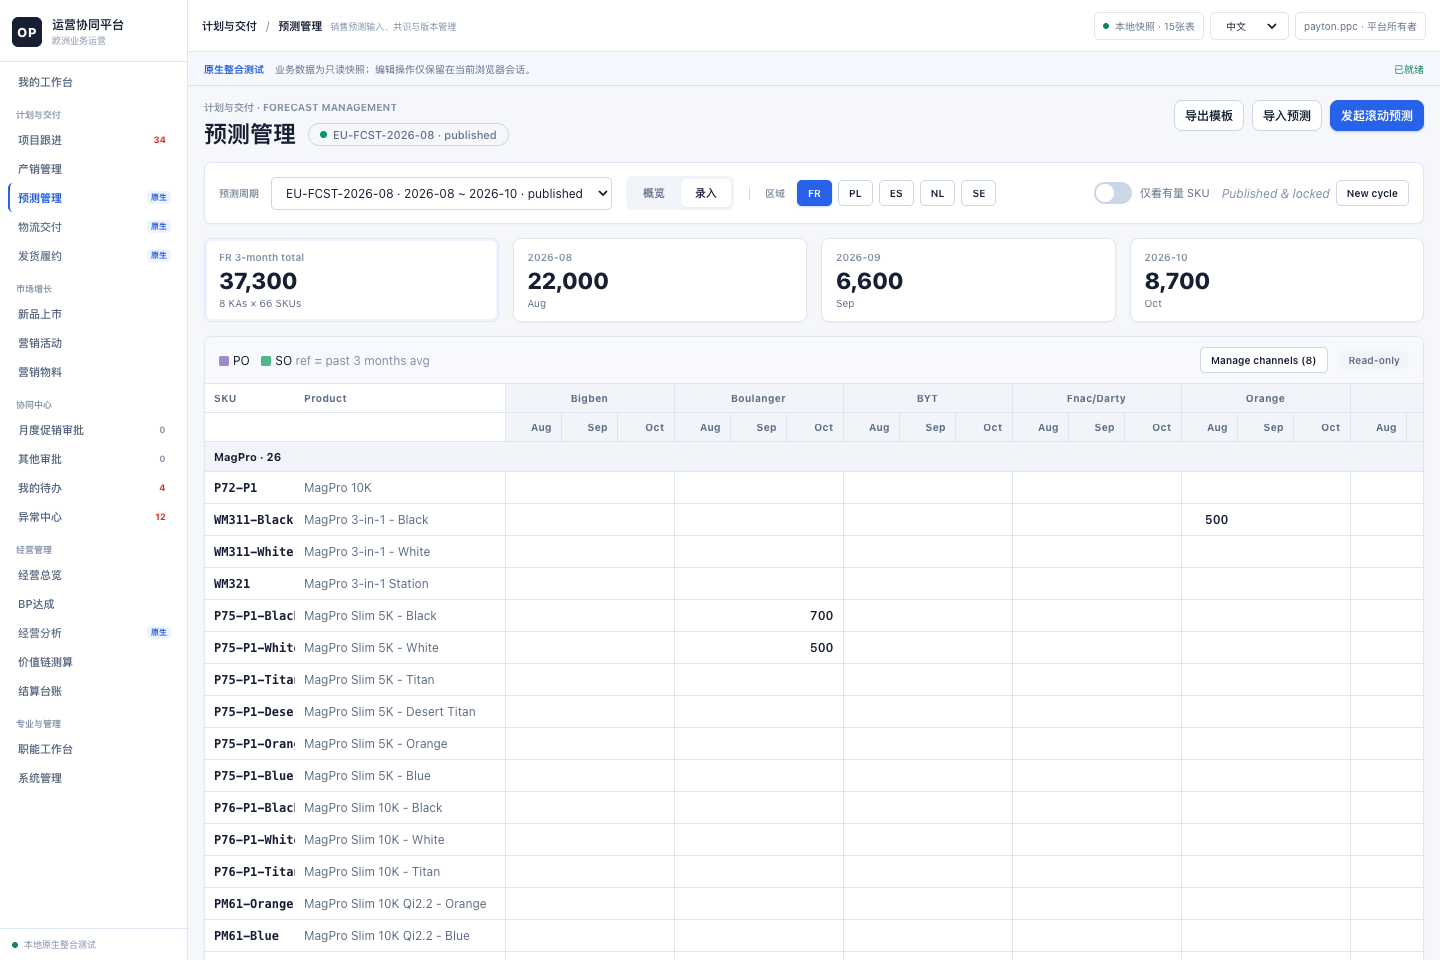
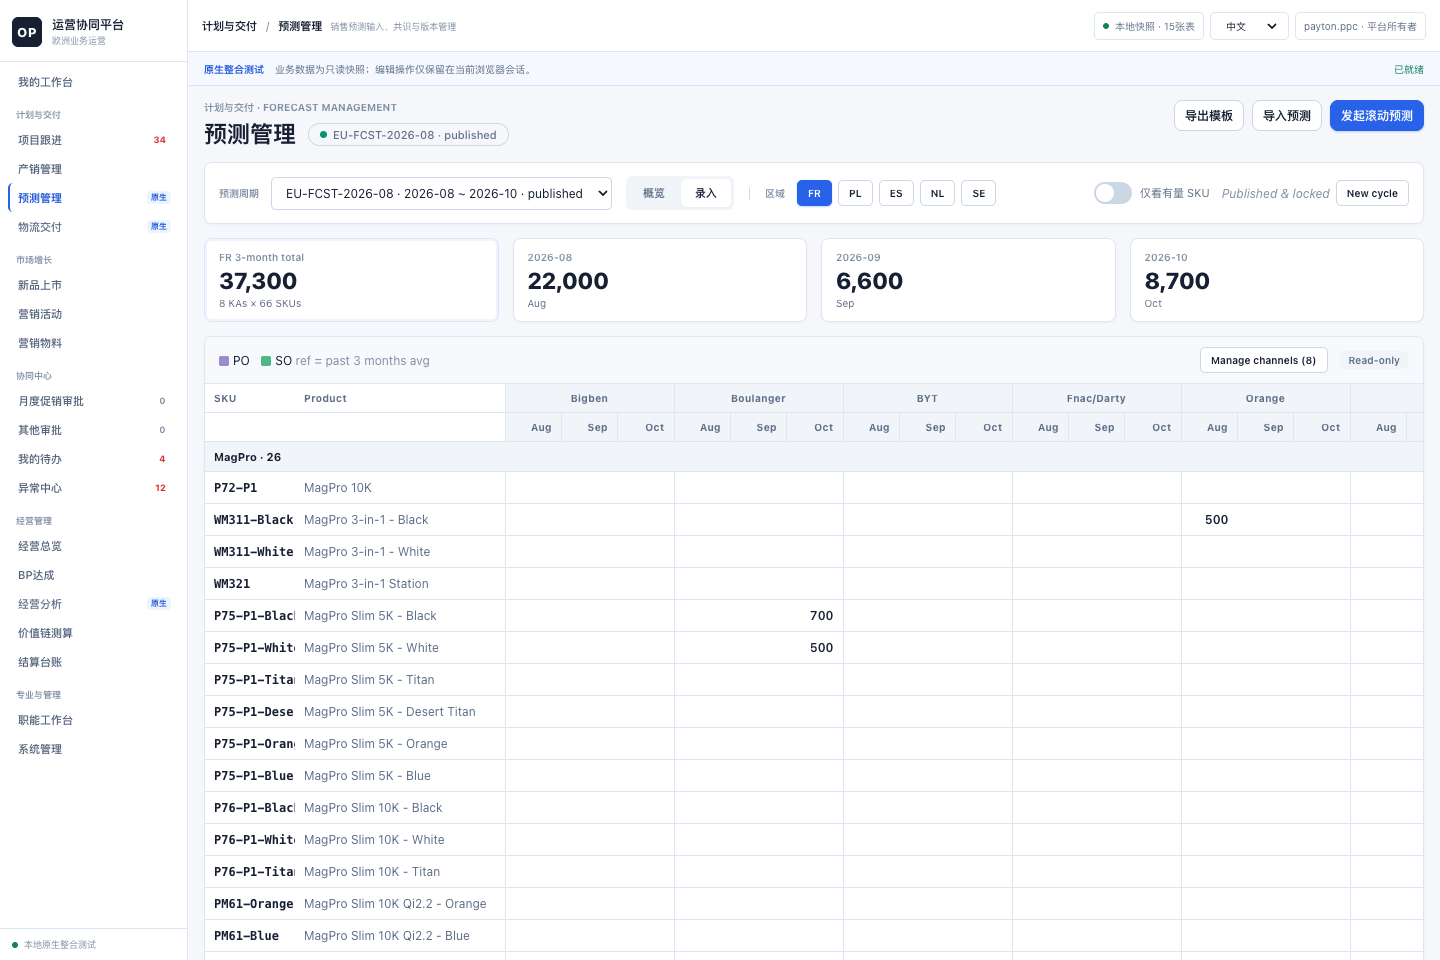
Refine native logistics workspace

Changed region(s): [[0.0, 0.375, 0.0625, 0.8125], [0.0, 0.25, 0.0312, 0.3438]]

diff --git a/erp-native-local-test/assets/platform-shell.js b/erp-native-local-test/assets/platform-shell.js
@@ -13,16 +13,20 @@
     logistic: {
       groupZh: "计划与交付",
       groupEn: "Planning & Delivery",
-      titleZh: "物流交付",
-      titleEn: "Logistics Delivery",
-      descriptionZh: "主数据、库存规格与渠道定价",
-      descriptionEn: "Master data, inventory specifications and channel pricing"
+      parentZh: "物流交付",
+      parentEn: "Logistics Delivery",
+      titleZh: "发货汇总",
+      titleEn: "Shipment Summary",
+      descriptionZh: "库存、规格与渠道定价汇总",
+      descriptionEn: "Inventory, specifications and channel pricing summary"
     },
     shipment: {
       groupZh: "计划与交付",
       groupEn: "Planning & Delivery",
-      titleZh: "发货履约",
-      titleEn: "Shipment Fulfilment",
+      parentZh: "物流交付",
+      parentEn: "Logistics Delivery",
+      titleZh: "发货操作",
+      titleEn: "Shipment Operations",
       descriptionZh: "PO 状态、批次发货与交付记录",
       descriptionEn: "PO status, shipment batches and delivery records"
     },
@@ -40,7 +44,7 @@
     "zh-CN": {
       brand: "运营协同平台", business: "欧洲业务运营", workbench: "我的工作台",
       planning: "计划与交付", projects: "项目跟进", sales: "产销管理", forecast: "预测管理",
-      logistic: "物流交付", shipment: "发货履约", growth: "市场增长", launch: "新品上市",
+      logistic: "物流交付", shipment: "发货操作", logisticsWorkspace: "物流交付", shipmentSummary: "发货汇总", shipmentOperation: "发货操作", growth: "市场增长", launch: "新品上市",
       campaigns: "营销活动", assets: "营销物料", collaboration: "协同中心", monthly: "月度促销审批",
       other: "其他审批", tasks: "我的待办", exceptions: "异常中心", businessManagement: "经营管理",
       overview: "经营总览", bp: "BP达成", performance: "经营分析", valueChain: "价值链测算",
@@ -50,7 +54,7 @@
     "en-GB": {
       brand: "Operations Hub", business: "Europe Business Operations", workbench: "My Workspace",
       planning: "Planning & Delivery", projects: "Project Tracking", sales: "Sales & Inventory", forecast: "Forecast Management",
-      logistic: "Logistics Delivery", shipment: "Shipment Fulfilment", growth: "Market Growth", launch: "New Product Launch",
+      logistic: "Logistics Delivery", shipment: "Shipment Operations", logisticsWorkspace: "Logistics Delivery", shipmentSummary: "Shipment Summary", shipmentOperation: "Shipment Operations", growth: "Market Growth", launch: "New Product Launch",
       campaigns: "Marketing Campaigns", assets: "Marketing Assets", collaboration: "Collaboration", monthly: "Monthly Promotion Approval",
       other: "Other Approvals", tasks: "My Tasks", exceptions: "Exception Centre", businessManagement: "Business Management",
       overview: "Business Overview", bp: "BP Achievement", performance: "Business Analysis", valueChain: "Value Chain Simulation",
@@ -65,11 +69,14 @@
   function moduleFromHash() {
     const params = new URLSearchParams(window.location.hash.replace(/^#/, ""));
     const requested = params.get("module");
+    if (requested === "logistic" && params.get("view") === "operation") return "shipment";
     return modules[requested] ? requested : "forecast";
   }
 
   function setHash(moduleKey, replace) {
-    const nextHash = `#module=${encodeURIComponent(moduleKey)}`;
+    const nextHash = moduleKey === "logistic" || moduleKey === "shipment"
+      ? `#module=logistic&view=${moduleKey === "shipment" ? "operation" : "summary"}`
+      : `#module=${encodeURIComponent(moduleKey)}`;
     if (window.location.hash === nextHash) return;
     if (replace) window.history.replaceState(null, "", nextHash);
     else window.history.pushState(null, "", nextHash);
@@ -88,10 +95,19 @@
     clearTransientUi();
     document.getElementById("renderStatus").textContent = locale === "en-GB" ? "Rendering..." : "正在呈现...";
     document.getElementById("view").replaceChildren();
+    const isLogisticsModule = moduleKey === "logistic" || moduleKey === "shipment";
     document.querySelectorAll("[data-module]").forEach((button) => {
-      button.classList.toggle("active", button.getAttribute("data-module") === moduleKey);
+      const buttonModule = button.getAttribute("data-module");
+      button.classList.toggle("active", buttonModule === moduleKey || (isLogisticsModule && buttonModule === "logistic"));
     });
-    document.getElementById("mobileModuleSelect").value = moduleKey;
+    const subnav = document.getElementById("logisticsSubnav");
+    subnav.hidden = !isLogisticsModule;
+    subnav.querySelectorAll("[data-logistics-view]").forEach((button) => {
+      const selected = button.getAttribute("data-logistics-view") === moduleKey;
+      button.classList.toggle("active", selected);
+      button.setAttribute("aria-selected", String(selected));
+    });
+    document.getElementById("mobileModuleSelect").value = isLogisticsModule ? "logistic" : moduleKey;
     updateContext(config);
     setHash(moduleKey, options && options.replace);
 
@@ -105,9 +121,12 @@
   function updateContext(config) {
     const english = locale === "en-GB";
     const group = english ? config.groupEn : config.groupZh;
+    const parent = english ? config.parentEn : config.parentZh;
     const title = english ? config.titleEn : config.titleZh;
     const description = english ? config.descriptionEn : config.descriptionZh;
-    document.getElementById("modulePath").innerHTML = `${escapeHtml(group)} <span class="sep">/</span> ${escapeHtml(title)}`;
+    document.getElementById("modulePath").innerHTML = parent
+      ? `${escapeHtml(group)} <span class="sep">/</span> ${escapeHtml(parent)} <span class="sep">/</span> ${escapeHtml(title)}`
+      : `${escapeHtml(group)} <span class="sep">/</span> ${escapeHtml(title)}`;
     document.getElementById("moduleDescription").textContent = description;
     document.getElementById("testModeDescription").textContent = english
       ? "Business data uses a read-only snapshot; edits remain in this browser session only."
@@ -154,6 +173,11 @@
 
   document.getElementById("mobileModuleSelect").addEventListener("change", (event) => {
     renderModule(event.target.value);
+  });
+
+  document.getElementById("logisticsSubnav").addEventListener("click", (event) => {
+    const viewButton = event.target.closest("[data-logistics-view]");
+    if (viewButton) renderModule(viewButton.getAttribute("data-logistics-view"));
   });
 
   document.getElementById("localeSelect").addEventListener("change", (event) => {

diff --git a/erp-native-local-test/assets/platform-integration.css b/erp-native-local-test/assets/platform-integration.css
@@ -203,6 +203,58 @@ button.top-control {
   max-width: none;
 }
 
+.logistics-subnav {
+  display: flex;
+  align-items: center;
+  gap: 14px;
+  margin: -2px 0 12px;
+  padding-bottom: 8px;
+  border-bottom: 1px solid var(--c-border);
+}
+
+.logistics-subnav[hidden] {
+  display: none;
+}
+
+.logistics-subnav-title {
+  color: var(--c-text-dim);
+  font-size: 10px;
+  font-weight: 700;
+}
+
+.logistics-subnav-tabs {
+  display: inline-flex;
+  align-items: center;
+  gap: 3px;
+  padding: 3px;
+  border: 1px solid var(--c-border);
+  border-radius: 6px;
+  background: var(--c-surface-3);
+}
+
+.logistics-subnav-tabs button {
+  min-width: 92px;
+  min-height: 29px;
+  border: 0;
+  border-radius: 4px;
+  background: transparent;
+  color: var(--c-text-dim);
+  font-size: 11px;
+  font-weight: 650;
+  cursor: pointer;
+}
+
+.logistics-subnav-tabs button:hover {
+  color: var(--c-text);
+  background: rgba(255, 255, 255, .65);
+}
+
+.logistics-subnav-tabs button.active {
+  background: var(--c-surface);
+  color: var(--c-primary-text);
+  box-shadow: var(--shadow-sm);
+}
+
 .page-head {
   margin-bottom: 12px;
 }
@@ -307,5 +359,58 @@ table.tbl td {
   .page-head .ph-actions {
     width: 100%;
     margin-left: 0;
+  }
+
+  .sw-root > div:first-child {
+    display: grid !important;
+    grid-template-columns: minmax(0, 1fr);
+    gap: 10px !important;
+  }
+
+  .sw-root > div:first-child > div:last-child {
+    justify-content: flex-start;
+    flex-wrap: wrap;
+  }
+
+  .sw-root > div:first-child h1 {
+    font-size: 20px !important;
+  }
+
+  .hrail {
+    display: grid !important;
+    grid-template-columns: repeat(2, minmax(0, 1fr));
+    gap: 8px !important;
+  }
+
+  .hrail .hnode {
+    min-width: 0;
+  }
+
+  .sw-card {
+    padding: 10px !important;
+  }
+
+  .sw-card > div:first-child {
+    display: grid !important;
+    grid-template-columns: minmax(0, 1fr);
+  }
+
+  .sw-card > div:first-child > div:last-child,
+  .sw-card .sw-search {
+    width: 100% !important;
+  }
+
+  .logistics-subnav {
+    align-items: flex-start;
+    gap: 8px;
+  }
+
+  .logistics-subnav-tabs {
+    flex: 1;
+  }
+
+  .logistics-subnav-tabs button {
+    flex: 1;
+    min-width: 0;
   }
 }

diff --git a/erp-native-local-test/index.html b/erp-native-local-test/index.html
@@ -29,7 +29,6 @@
         <button class="nav-item platform-existing" type="button" data-existing-module="sales"><span class="lbl" data-i18n="sales">产销管理</span></button>
         <button class="nav-item" type="button" data-module="forecast"><span class="lbl" data-i18n="forecast">预测管理</span><span class="nav-tag" data-i18n="native">原生</span></button>
         <button class="nav-item" type="button" data-module="logistic"><span class="lbl" data-i18n="logistic">物流交付</span><span class="nav-tag" data-i18n="native">原生</span></button>
-        <button class="nav-item" type="button" data-module="shipment"><span class="lbl" data-i18n="shipment">发货履约</span><span class="nav-tag" data-i18n="native">原生</span></button>
 
         <div class="nav-section" data-i18n="growth">市场增长</div>
         <button class="nav-item platform-existing" type="button" data-existing-module="launch"><span class="lbl" data-i18n="launch">新品上市</span></button>
@@ -71,7 +70,6 @@
           <select id="mobileModuleSelect" aria-label="选择测试模块">
             <option value="forecast">预测管理</option>
             <option value="logistic">物流交付</option>
-            <option value="shipment">发货履约</option>
             <option value="performance">经营分析</option>
           </select>
         </label>
@@ -98,7 +96,16 @@
       </div>
 
       <section class="content" aria-live="polite">
-        <div class="content-inner" id="view"></div>
+        <div class="content-inner">
+          <nav class="logistics-subnav" id="logisticsSubnav" aria-label="物流交付子模块" hidden>
+            <span class="logistics-subnav-title" data-i18n="logisticsWorkspace">物流交付</span>
+            <div class="logistics-subnav-tabs" role="tablist">
+              <button type="button" role="tab" data-logistics-view="logistic" data-i18n="shipmentSummary">发货汇总</button>
+              <button type="button" role="tab" data-logistics-view="shipment" data-i18n="shipmentOperation">发货操作</button>
+            </div>
+          </nav>
+          <div id="view"></div>
+        </div>
       </section>
     </main>
   </div>

diff --git a/erp-native-local-test/assets/shipment.js b/erp-native-local-test/assets/shipment.js
@@ -168,7 +168,7 @@
 
   function header() {
     return h('div', { style: { display: 'flex', alignItems: 'flex-start', justifyContent: 'space-between', gap: '12px' } }, [
-      h('div', [h('h1', { style: { margin: 0, fontSize: '22px', fontWeight: 800 } }, '发货履约'),
+      h('div', [h('h1', { style: { margin: 0, fontSize: '22px', fontWeight: 800 } }, '发货操作'),
         h('div', { style: { fontSize: '13px', color: 'var(--c-text-dim)', marginTop: '4px', maxWidth: '760px' } }, '一条履约流水线管完整 PO 生命周期。发货记录以批次存储，同一 SKU 可分多次发运、各批独立日期与备注。')]),
       h('div', { style: { display: 'flex', gap: '8px', alignItems: 'center' } }, [
         h('button.btn', { onclick: () => S.toast('PO 明细导出 · demo') }, 'PO 明细'),

diff --git a/erp-native-local-test/assets/logistic.js b/erp-native-local-test/assets/logistic.js
@@ -71,7 +71,7 @@
     const act = allSkus().filter(s => s.is_active).length, ina = allSkus().length - act
     return S.pageHeader({
       overline: (window.ROUTES && ROUTES.logistic.overline) || 'MASTER DATA · LOGISTICS',
-      title: '物流交付',
+      title: '发货汇总',
       pill: { text: `${act} 在售 · ${ina} 停用`, color: 'var(--c-success)' },
       actions: [
         h('button.btn', { onclick: openExport }, '导出台账'),

diff --git a/erp-native-local-test/README.md b/erp-native-local-test/README.md
@@ -5,8 +5,9 @@
 本测试版将以下四个模块放入同一个运营协同平台壳内，不使用 iframe：
 
 - 预测管理
-- 物流交付（库存、规格、RRP 与 FD 定价）
-- 发货履约（PO 状态看板与发货操作台）
+- 物流交付
+  - 发货汇总（原物流交付界面：库存、规格、RRP 与 FD 定价）
+  - 发货操作（原发货履约界面：PO 状态看板与发货操作台）
 - 经营分析（FCST Scorecard、Sales Review、Profitability）
 
 数据来自提供文件的只读快照。原始文件未被修改；演示中的编辑、发货和保存操作只在当前浏览器会话中生效，不写入协同平台数据库。
@@ -19,4 +20,4 @@
 python3 -m http.server 8942
 ```
 
-模块 URL 使用 `#module=forecast|logistic|shipment|performance`，刷新页面后会恢复当前模块。
+物流交付子模块 URL 使用 `#module=logistic&view=summary|operation`，刷新页面后会恢复当前子模块。
